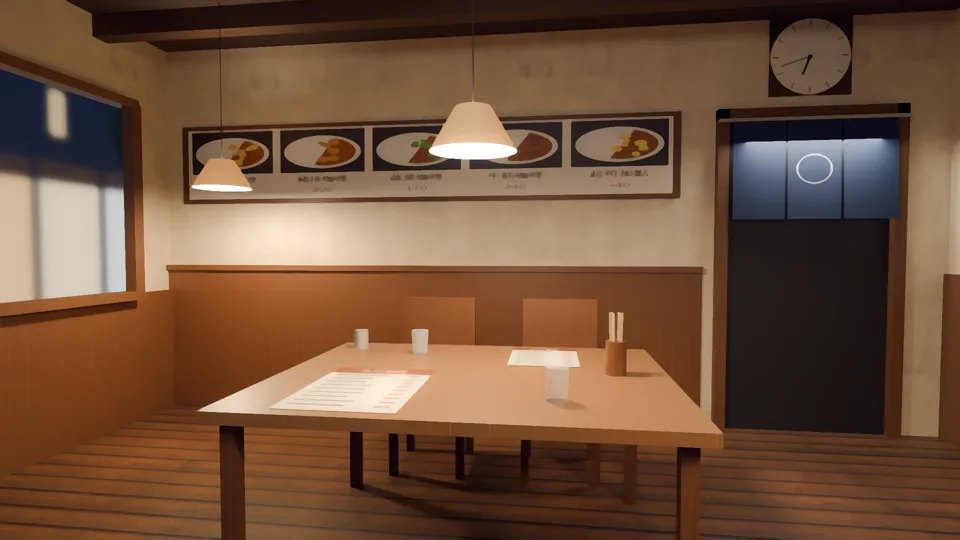
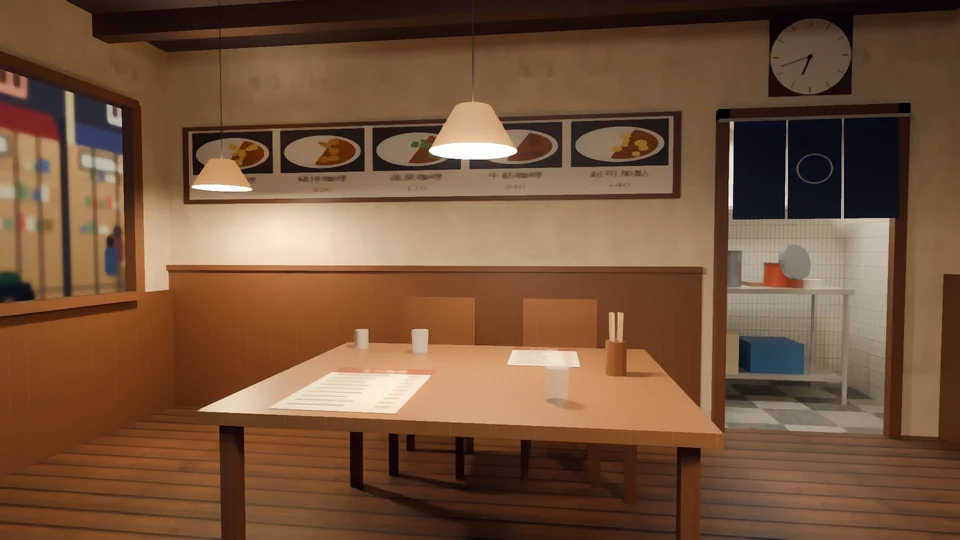
咖哩店第五版圖（廚房、窗外街景）＋說明；品妤耳朵階段第四次（耳根整圈不動、邊緣不加陰影）
- yongkang_curry.webp：布簾後面的小廚房、窗外照真的比例的商店街（同檔名換檔）
- bg_cinema_curry/README：第五版精修、修改前後對照
- pinyu_ears.py：以耳朵貼著頭的那一圈邊為準漸變縮放（第一、二次上耳根露出暗縫）；凹處偏紅、島的邊緣 6 px 不加陰影
- bg_cinema.py：售票亭電風扇（護網、扇葉）、深灰辦公椅（最終圖算圖中）

Claude-Session: https://claude.ai/code/session_015BuNi47yLUt5PviELapMNj

Changed region(s): [[0.6875, 0.237, 1.0, 0.9778], [0.0, 0.1185, 0.1562, 0.563], [0.9688, 0.8, 1.0, 0.8296]]

diff --git a/tools/blender/char_second/pinyu_ears.py b/tools/blender/char_second/pinyu_ears.py
@@ -2,8 +2,10 @@
 在臉之後、衣服和頭髮之前做（pinyu.py --from-blend face.blend --stages ears,clothes,hair）：
   1. 大小：Darkness Shibu 的耳朵在 Face 網格裡是獨立的小島（每邊正面 82 面、背面 56 面、一片小三角，|x| 0.06–0.10 m）。
      露在頭外面的耳廓縮成 EAR_K 倍（中心＝耳根的中段：最靠頭那一圈頂點的 x、y，耳朵上下的中間）：耳朵外緣離頭近一點、上下短一點。
-     耳根（埋在頭裡、到頭皮那一圈）不動：頭的網格在耳朵接的地方有開口，第一次整個耳朵一起縮，上耳根露出一道暗紅色的縫。
-     從 |x| ROOT_X0 到 ROOT_X1 漸漸加到全部縮放。所有 shape key 一起變（C.warp_world）。
+     耳根不動：耳朵正面、背面都是單面的網格，貼在臉和頭的接縫上，沒有和頭接起來。
+     第一次整個耳朵一起縮，上耳根露出一道暗紅色的縫；第二次照 |x| 漸變，前上方還有一條細縫。
+     第三次：以「耳朵貼著頭的那一圈邊」（島的邊界、|x| < ROOT_XB）為準，離這圈邊 ROOT_D0 內不動、ROOT_D1 外全部縮放。
+     所有 shape key 一起變（C.warp_world）。
   2. 顏色：貼圖上的耳朵本來是偏粉紅的一塊（中間 0.96/0.82/0.80，臉頰 0.97/0.91/0.90），遊戲裡比臉紅、亮的地方又比臉白。
      耳朵的島（UV 三角形畫成遮罩、往外擴幾個 px 給 mipmap）改成「耳朵旁邊那一圈臉皮」的顏色（同一張貼圖、頭的兩側），
      原本的明暗只留一點：凹進去的地方最多暗 SHADE_MIN，凸起來的地方不超過旁邊的臉。"""
@@ -13,7 +15,8 @@ import h01_face as F
 from PIL import Image, ImageDraw, ImageFilter
 
 EAR_K = 0.82          # BB-C：縮小 15～20%
-ROOT_X0, ROOT_X1 = 0.071, 0.084   # 頭皮在耳朵那裡約 |x| 0.068–0.079（臉和身體網格接縫的位置）
+ROOT_XB = 0.078                   # 貼著頭的邊界頂點（頭皮在耳朵那裡約 |x| 0.068–0.079，臉和身體網格接縫的位置）
+ROOT_D0, ROOT_D1 = 0.002, 0.024    # 第四次：0.003–0.014 時前上方的耳廓被折到（露出網格背面的暗色三角形），漸變拉長
 SHADE_MIN = 0.86      # 耳廓凹處最多暗多少（1＝平的一塊；原本貼圖的凹處約 0.88）
 SHADE_GAMMA = 0.9
 
@@ -43,20 +46,24 @@ def apply(m):
         vi = sorted({v.index for f in comp for v in f.verts}); ax = np.abs(W[vi, 0])
         if len(comp) < 300 and ax.min() > 0.057:                     # 耳朵（正面、背面、小三角）；眼角、嘴角的單片三角在 |x|<0.057
             ears[float(np.sign(W[vi, 0].mean()))].append(comp)
-    idx = {}; piv = {}
+    idx = {}; piv = {}; wgt = {}
     for s, comps in ears.items():
         vi = np.array(sorted({v.index for c in comps for f in c for v in f.verts})); ax = np.abs(W[vi, 0])
+        bnd = np.array(sorted({v.index for c in comps for f in c for e in f.edges if e.is_boundary for v in e.verts}))
+        rb = W[bnd[np.abs(W[bnd, 0]) < ROOT_XB]]
+        dist = np.min(np.linalg.norm(W[vi][:, None, :] - rb[None, :, :], axis=2), axis=1); t = np.clip((dist - ROOT_D0) / (ROOT_D1 - ROOT_D0), 0, 1); wgt[s] = t * t * (3 - 2 * t)
+        print('  ear %+d: %d root-edge verts, %d fixed, %d fully scaled' % (s, len(rb), int((wgt[s] == 0).sum()), int((wgt[s] == 1).sum())))
         root = vi[ax < ax.min() + 0.006]; idx[s] = vi; piv[s] = np.array([W[root, 0].mean(), W[root, 1].mean(), 0.5 * (W[vi, 2].min() + W[vi, 2].max())])
         P = W[vi]; print('  ear %+d: %d islands, %d verts, size x %.3f y %.3f z %.3f, pivot %s' % (s, len(comps), len(vi), np.ptp(P[:, 0]), np.ptp(P[:, 1]), np.ptp(P[:, 2]), np.round(piv[s], 4)))
 
     def fn(P):
         Q = P.copy()
         for s in idx:
-            Pi = P[idx[s]]; t = np.clip((np.abs(Pi[:, 0]) - ROOT_X0) / (ROOT_X1 - ROOT_X0), 0, 1); w = (t * t * (3 - 2 * t))[:, None]
+            Pi = P[idx[s]]; w = wgt[s][:, None]
             Q[idx[s]] = Pi + (piv[s] + (Pi - piv[s]) * EAR_K - Pi) * w
         return Q
     for s in idx:
-        P0 = W[idx[s]]; P1 = fn(W)[idx[s]]; out_ = np.abs(P0[:, 0]) > ROOT_X1
+        P0 = W[idx[s]]; P1 = fn(W)[idx[s]]
         print('  ear %+d outer part: height %.4f → %.4f, depth %.4f → %.4f, max |x| %.4f → %.4f' % (s, np.ptp(P0[:, 2]), np.ptp(P1[:, 2]), np.ptp(P0[:, 1]), np.ptp(P1[:, 1]), np.abs(P0[:, 0]).max(), np.abs(P1[:, 0]).max()))
     C.warp_world(face, fn)
 
@@ -76,7 +83,10 @@ def apply(m):
     lum = rgb @ np.array([0.30, 0.59, 0.11]); hi = np.percentile(lum[em], 75)
     k = np.clip(lum / hi, SHADE_MIN, 1.0) ** SHADE_GAMMA
     k = F.blur(k, 1)                                                   # 貼圖的鋸齒不要放大
-    out = a.copy(); out[em, :3] = ref[None, :] * k[em, None]
+    dark = ((1 - k) / (1 - SHADE_MIN))[em, None]                        # 凹處：紅的少暗一點（耳廓凹處偏紅，不是灰；第一次照比例一起暗，Blender 預覽偏灰）
+    inner = np.asarray(Image.fromarray((mask_of(ear_f) * 255).astype(np.uint8)).filter(ImageFilter.MinFilter(13))) > 127   # 島的邊緣 6 px 以內不加陰影：
+    dark = dark * np.clip(F.blur(inner.astype(float), 3), 0, 1)[em, None]   # 遊戲的描邊、mipmap 會用到邊緣的顏色，第二次上耳根那條邊變成一條暗線（第六版同一個位置是白線）
+    out = a.copy(); out[em, :3] = ref[None, :] * (1 - (1 - SHADE_MIN) * dark * np.array([0.55, 1.0, 1.08])[None, :])
     print('  ear colour: was median %s → side-of-head %s (cheek %s), %d px' % (np.round(np.median(rgb[em], 0), 3), np.round(ref, 3), np.round(cheek, 3), int(em.sum())))
     im = C.image_from_array('X07_Face_ears', out.astype(np.float32)); F.set_tex(mat, im)
     bm.free()

diff --git a/docs/art-rebuild/second_ai/test_shots/bg_cinema_curry/README.md b/docs/art-rebuild/second_ai/test_shots/bg_cinema_curry/README.md
@@ -60,14 +60,14 @@ ART-17 總表裡最後兩張還沒有圖的 2D 背景：事件已經在用，現
 ![](v2_curry_window.webp)
 
 ## 還沒達到的
-- 戲院：
-  - 天花板、牆面很乾淨，老戲院的舊痕跡（污漬、磨損、貼過又撕掉的膠帶）還沒有；
-  - 海報是簡單的色塊；
-  - 售票口右邊那扇窗偏灰（亭子裡加了燈，還是被玻璃的反光蓋住大半）。
+- 戲院（第四版時；第五版都改了，見下面）：
+  - ~~天花板、牆面很乾淨，老戲院的舊痕跡（污漬、磨損、貼過又撕掉的膠帶）還沒有~~；
+  - ~~海報是簡單的色塊~~；
+  - ~~售票口右邊那扇窗偏灰（亭子裡加了燈，還是被玻璃的反光蓋住大半）~~。
 - 咖哩店：
-  - 窗外的店面是大色塊；
+  - ~~窗外的店面是大色塊~~（第五版改了）；
   - 右牆的香料架在畫面外（鏡頭看不到）；
-  - 廚房入口的布簾後面很暗，工作台看不太出來。
+  - ~~廚房入口的布簾後面很暗，工作台看不太出來~~（第五版改了）。
 - 兩張都沒有使用者的參考照片；場景美術要使用者看過才標 `ART_APPROVED`。
 - 還沒接進遊戲（等 LAWWW-C）。
 
@@ -95,3 +95,28 @@ ART-17 總表裡最後兩張還沒有圖的 2D 背景：事件已經在用，現
 
 第四版整張：
 ![](v4_cinema.webp)
+
+### 咖哩店
+- **布簾後面**（原本一片深灰）：
+  - 後牆開了真的門洞，後面蓋一個小廚房：淺色長條磁磚的牆、黑白格子地磚、淺色天花板、一盞暖光；
+  - 不鏽鋼工作台（檯面、四隻腳、下層架放米袋和藍色塑膠籃）；
+  - 檯面上一個鋼鍋、一個紅色琺瑯鍋（鍋蓋斜靠著）、勺子、砧板、一疊盤子；碗架在布簾上面（被擋住）。
+- **窗外**（原本幾大塊色塊）：
+  - 對面的街照真的比例放到 8 m 外：店面 4～7 m 寬、一樓 3 m 高（原本 4 m 外、整條街只有 4.6 m 高，店面像模型，從窗戶看一整塊一整塊）；
+  - 店裡：三層層架上的東西、菜單板、吊燈、櫃台後面的店員、靠窗坐著的客人；
+  - 落地窗的門框、騎樓的柱子、門口的立牌；二、三樓的窗加鐵窗和冷氣機（台北的公寓）；
+  - 店面整體暗一點、暖一點（原本有冷白的店面，看起來像白天）。
+
+修改前（左，第四版）／後（右）：
+![](v5_curry_kitchen.webp)
+![](v5_curry_window.webp)
+
+第四版整張：
+![](v4_curry.webp)
+
+### 第五版還沒達到的
+- 戲院：亭子裡的東西在玻璃後面，還是偏簡單（印票機、零錢盤是方塊）；
+- 咖哩店：
+  - 廚房的藍色塑膠籃、米袋是平的方塊，鍋蓋是一片灰圓盤；在布簾後面的中景，還看得出是簡單的形狀；
+  - 窗外的店是畫的貼圖（景深外、模糊），近看是平面。
+- 兩張都沒有使用者的參考照片；**場景美術要使用者看過才標 `ART_APPROVED`**。
